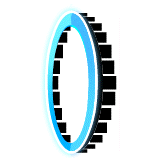
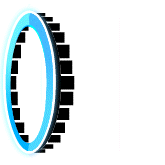
Fix camera, portals, progress bar

diff --git a/sprite.py b/sprite.py
@@ -137,11 +137,12 @@ class Player(ImageSprite):
         self.should_jump = False
 
         self.dead = False
+        self.won = False
         self.score = 0  # x position when the player died
 
     def clone(self):
         """Returns a new player with the same attributes.
-        
+
         Possibly shallow-copied attributes:
         image
         original_image
@@ -212,42 +213,46 @@ class Player(ImageSprite):
         Args:
             element_map (dict): Dictionary from tile coordinates to pygame Sprites.
         """
+        # (1, -2) is to check for portals since they have a height of 3
+        neighbors = [(1, -2)]
         for x in range(-1, 2):
             for y in range(-1, 2):
-                tile_coord = (
-                    self.rect.center[0] // BLOCK_SIZE + x,
-                    self.rect.center[1] // BLOCK_SIZE + y,
-                )
-                element = element_map.get(tile_coord)
-                if not element or not pygame.sprite.collide_mask(self, element):
-                    continue
+                neighbors.append((x, y))
 
-                match element.collision_type:
-                    case type if type in [
-                        CollisionType.SOLID,
-                        CollisionType.SOLID_TOP,
-                        CollisionType.SOLID_BOTTOM,
-                        CollisionType.SPIKE,
-                    ]:
-                        self.dead = True
-                        self.score = self.rect.x
-                        self.velocity = Vector2(0, 0)
-                        self.rect.right = element.rect.left
-                        return
-                    case CollisionType.PORTAL_FLY_START:
-                        self.flying = True
-                    case CollisionType.PORTAL_FLY_END:
-                        self.flying = False
-                    case CollisionType.PORTAL_GRAVITY_REVERSE:
-                        self.gravity_reversed = True
-                    case CollisionType.PORTAL_GRAVITY_NORMAL:
-                        self.gravity_reversed = False
-                    case CollisionType.JUMP_PAD:
-                        self.velocity.y = -VELOCITY_JUMP_PAD
-                    case CollisionType.END:
-                        self.won = True
-                        self.velocity = Vector2(0, 0)
-                        return
+        for x, y in neighbors:
+            tile_coord = (
+                self.rect.center[0] // BLOCK_SIZE + x,
+                self.rect.center[1] // BLOCK_SIZE + y,
+            )
+            element = element_map.get(tile_coord)
+            if not element or not pygame.sprite.collide_mask(self, element):
+                continue
+
+            match element.collision_type:
+                case type if type in [
+                    CollisionType.SOLID,
+                    CollisionType.SOLID_TOP,
+                    CollisionType.SOLID_BOTTOM,
+                    CollisionType.SPIKE,
+                ]:
+                    self.dead = True
+                    self.score = self.rect.x
+                    self.velocity = Vector2(0, 0)
+                    return
+                case CollisionType.JUMP_PAD:
+                    self.velocity.y = -VELOCITY_JUMP_PAD
+                case CollisionType.END:
+                    self.won = True
+                    self.velocity = Vector2(0, 0)
+                    return
+                case CollisionType.PORTAL_FLY_START:
+                    self.flying = True
+                case CollisionType.PORTAL_FLY_END:
+                    self.flying = False
+                case CollisionType.PORTAL_GRAVITY_REVERSE:
+                    self.gravity_reversed = True
+                case CollisionType.PORTAL_GRAVITY_NORMAL:
+                    self.gravity_reversed = False
 
     def check_collisions_y(self, element_map: dict, floor_level: int):
         """Checks for collisions in the y direction.
@@ -317,11 +322,13 @@ class Player(ImageSprite):
             return
 
         # Move x
-        self.rect.x += self.velocity.x
+        self.rect.x += 1
 
         # Check collisions x
         self.check_collisions_x(element_map)
-        
+
+        self.rect.x += self.velocity.x - 1
+
         if self.dead:
             return
 

diff --git a/jump_controller.py b/jump_controller.py
@@ -31,6 +31,7 @@ class Net(nn.Module):
 
         # 5 inputs, size 3 hidden layer, 1 output
         self.fc1 = nn.Linear(5, 3)
+        self.fc1 = nn.Linear(1, 3)
         self.fc2 = nn.Linear(3, 1)
 
     def forward(self, x):
@@ -45,10 +46,21 @@ class Net(nn.Module):
 class JumpControllerAI(JumpController):
     def __init__(self, parent_net=None):
         self.farthest_distance = 0
+
         if parent_net:
             self.net = parent_net
+
+            # breakpoint()
+
+            EVOLUTION_STRENGTH = 2  # The strength of the mutation
+            EVOLUTION_FREQ = 0.5  # How many of the weights will be mutated
             for param in self.net.parameters():
-                param.data += torch.randn(param.size()) * 0.1
+                mask = torch.Tensor(param.size()).uniform_() <= EVOLUTION_FREQ
+                mutation = mask * (torch.randn(param.size()) * EVOLUTION_STRENGTH)
+                # breakpoint()
+                param.data += mutation
+
+            # breakpoint()
         else:
             self.net = Net()
 
@@ -143,26 +155,31 @@ class JumpControllerAI(JumpController):
     def should_jump(self, player: Player, element_map: dict, floor_level: int):
         dist_to_death = self.hallucinate_dist_to_death(player, element_map, floor_level)
 
-        tile_coord = (player.rect.x // BLOCK_SIZE, player.rect.y // BLOCK_SIZE)
-        element = element_map.get(tile_coord)
-        on_jump_orb = (
-            element.collision_type == CollisionType.JUMP_ORB if element else False
-        )
+        # tile_coord = (player.rect.x // BLOCK_SIZE, player.rect.y // BLOCK_SIZE)
+        # element = element_map.get(tile_coord)
+        # on_jump_orb = (
+        #     element.collision_type == CollisionType.JUMP_ORB if element else False
+        # )
 
-        will_die_if_jump = self.hallucinate_will_die_if_jump(
-            player, element_map, floor_level, on_jump_orb
-        )
+        # will_die_if_jump = self.hallucinate_will_die_if_jump(
+        #     player, element_map, floor_level, on_jump_orb
+        # )
 
-        vertical_obstacle_height = self.get_vertical_obstacle_height(
-            player, element_map, floor_level
-        )
+        # vertical_obstacle_height = self.get_vertical_obstacle_height(
+        #     player, element_map, floor_level
+        # )
+        
+        if player.flying:
+            return dist_to_death < 200
+        
+        return dist_to_death < 30
 
         features = [
-            int(player.flying),
-            dist_to_death,
-            int(on_jump_orb),
-            int(will_die_if_jump),
-            vertical_obstacle_height,
+            # int(player.flying),
+            (240 - dist_to_death) / 200,
+            # int(on_jump_orb),
+            # int(will_die_if_jump),
+            # vertical_obstacle_height,
         ]
 
         # print(time.time(), features, end=" ")

diff --git a/game.py b/game.py
@@ -82,7 +82,7 @@ class Game:
     def init_players(self, num_manual_players, num_ai_players, best_ai_player):
         player_sprite_group = pygame.sprite.Group()
         for i in range(num_ai_players):
-            if i == 0:
+            if i == num_ai_players - 1:
                 # Make the first player the same as the best player from the
                 # previous generation so that the NN does not devolve
                 if best_ai_player:
@@ -108,7 +108,8 @@ class Game:
 
             Player(
                 (
-                    BLOCK_SIZE * -5 - (BLOCK_SIZE * 3 * i / num_ai_players),
+                    BLOCK_SIZE * -5
+                    - (BLOCK_SIZE * 3 * (num_ai_players - i - 1) / num_ai_players),
                     self.map_height - BLOCK_SIZE,
                 ),
                 Vector2(VELOCITY_X, 0),
@@ -142,15 +143,15 @@ class Game:
                 image = load_image(
                     ELEMENTS[id]["filename"],
                     (
-                        BLOCK_SIZE * (2 if is_portal else 1),
-                        BLOCK_SIZE * (2 if is_portal else 1),
+                        BLOCK_SIZE * (3 if is_portal else 1),
+                        BLOCK_SIZE * (3 if is_portal else 1),
                     ),
                 )
                 if image:
                     ElementSprite(
                         (
-                            x - (BLOCK_SIZE if is_portal else 0),
-                            y - (BLOCK_SIZE if is_portal else 0),
+                            x - BLOCK_SIZE * (2 if is_portal else 0),
+                            y - BLOCK_SIZE * (2 if is_portal else 0),
                         ),
                         image,
                         ELEMENTS[id]["collision_type"],
@@ -191,11 +192,18 @@ class Game:
                 )
             player.update(self.element_map, self.map_height)
 
+        player_x = self.player_sprite_group.sprites()[0].rect.x
+
         # Starting animation: don't move the camera until the player is past the
         # first third of the screen
-        if self.player_sprite_group.sprites()[0].rect.x > SCREEN_SIZE[0] / 3:
+        if player_x > SCREEN_SIZE[0] / 3:
             self.tile_sprite_group.update()
             self.camera.x += VELOCITY_X
         # self.camera.y += 0 # TODO: camera should follow player
 
-        self.progress_bar.progress = self.camera.x / self.map_width
+        if player_x < SCREEN_SIZE[0] / 3:
+            self.progress_bar.progress = max(0, player_x + BLOCK_SIZE * 2) / self.map_width
+        else:
+            self.progress_bar.progress = (
+                self.camera.x + SCREEN_SIZE[0] / 3 + BLOCK_SIZE * 2
+            ) / self.map_width

diff --git a/components/progress_bar.py b/components/progress_bar.py
@@ -28,6 +28,8 @@ class ProgressBar:
         self.rect = pygame.Rect(x, y, width, height)
 
     def draw(self, screen):
+        progress = min(self.progress, 1)
+        
         # background
         pygame.draw.circle(
             screen,
@@ -67,7 +69,7 @@ class ProgressBar:
             screen,
             self.color,
             (
-                self.x + (self.width - self.height) * self.progress + self.height / 2,
+                self.x + (self.width - self.height) * progress + self.height / 2,
                 self.y + self.height / 2,
             ),
             self.height / 2,
@@ -78,7 +80,7 @@ class ProgressBar:
             (
                 self.x + self.height / 2,
                 self.y,
-                (self.width - self.height) * self.progress,
+                (self.width - self.height) * progress,
                 self.height,
             ),
             0,
@@ -95,7 +97,7 @@ class ProgressBar:
             screen,
             self.highlight_color,
             (
-                self.x + (self.width - self.height) * self.progress + self.height / 2,
+                self.x + (self.width - self.height) * progress + self.height / 2,
                 self.y + self.height / 4 + self.height / 8,
             ),
             self.height / 8,
@@ -106,7 +108,7 @@ class ProgressBar:
             (
                 self.x + self.height / 2,
                 self.y + self.height / 4,
-                (self.width - self.height) * self.progress,
+                (self.width - self.height) * progress,
                 self.height / 4,
             ),
             0,
@@ -114,7 +116,7 @@ class ProgressBar:
 
         # text
         text = Text(
-            f"{(100 * self.progress):.0f}%",
+            f"{(100 * progress):.0f}%",
             36,
             self.text_color,
             midleft=(self.x + self.width + 10, self.y + self.height / 2),

diff --git a/screens/play.py b/screens/play.py
@@ -37,11 +37,11 @@ def play(
             if keys[pygame.K_n]:
                 next_frame = True
             elif keys[pygame.K_LEFT]:
-                game.camera.x -= VELOCITY_X * 5
-                next_frame = True
+                game.camera.x -= VELOCITY_X * 15
+                break
             elif keys[pygame.K_RIGHT]:
-                game.camera.x += VELOCITY_X * 5
-                next_frame = True
+                game.camera.x += VELOCITY_X * 15
+                break
             for event in pygame.event.get():
                 if event.type == pygame.QUIT:
                     pygame.quit()
@@ -83,6 +83,8 @@ def play(
         if game.player_sprite_group.sprites()[0].dead:
             attempt_num += 1
             game = Game(map, num_manual_players=1)
+        elif game.player_sprite_group.sprites()[0].won:
+            pause = True
 
         # Redraw
         game.tile_sprite_group.draw(screen)

diff --git a/screens/simulate.py b/screens/simulate.py
@@ -53,11 +53,11 @@ def simulate(
                 if keys[pygame.K_n]:
                     next_frame = True
                 elif keys[pygame.K_LEFT]:
-                    game.camera.x -= VELOCITY_X * 5
-                    next_frame = True
+                    game.camera.x -= VELOCITY_X * 15
+                    break
                 elif keys[pygame.K_RIGHT]:
-                    game.camera.x += VELOCITY_X * 5
-                    next_frame = True
+                    game.camera.x += VELOCITY_X * 15
+                    break
                 for event in pygame.event.get():
                     if event.type == pygame.QUIT:
                         pygame.quit()

diff --git a/config.py b/config.py
@@ -23,6 +23,7 @@ LEVELS = {
     4: {"name": "Dry Out", "filename": "maps/4.csv"},
     5: {"name": "Base After Base", "filename": "maps/5.csv"},
     6: {"name": "Portals", "filename": "maps/portals.csv"},
+    7: {"name": "Portals Simple", "filename": "maps/portals-simple.csv"},
 }
 
 
